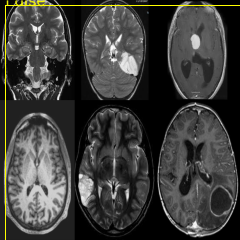
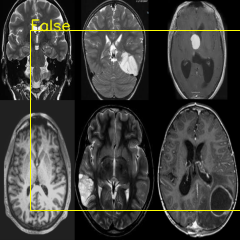
ok

Changed region(s): [[0.1167, 0.0583, 1.0, 0.9042], [0.0, 0.0, 1.0, 1.0]]

diff --git a/computer_vision_model_localization_detection.py b/computer_vision_model_localization_detection.py
@@ -11,7 +11,10 @@ class computer_vision_localization_detection(object):
 
         self.image_size = 240
         self.number_classes = int(number_classes)
-        self.split_size = 25
+        self.split_size = 900
+        self.validation_size = 3
+        
+        self.box_index = []
         self.color = [(0,255,255),(0,0,255),(0,255,0),(255,0,0)]
         self.font = cv2.FONT_HERSHEY_SIMPLEX
         self.alpha = 0.4
@@ -80,13 +83,16 @@ class computer_vision_localization_detection(object):
         self.image_file_image = np.array(self.image_file_image)
         self.X_test_image = self.image_file_image.astype("float32") / 255
         self.predicted_classes = self.model.predict(self.X_test)
-
+    
 
     def localization(self):
         
         first_predicting_position = None
         first_prediction = False
         last_predicting_position = None
+        
+        index_x = None
+        index_y = None
 
         for image in os.listdir(self.image_path):
             image_resized = cv2.imread(os.path.join(self.image_path, image))
@@ -99,36 +105,40 @@ class computer_vision_localization_detection(object):
                     for r in range(0,image_resized.shape[0],int(math.sqrt(self.split_size))):
                         for c in range(0,image_resized.shape[1],int(math.sqrt(self.split_size))):
                             if first_prediction == False:
-                                if self.predicted_classes_array[int(r/(self.image_size/(math.sqrt(len(self.image_file)))))][int(c/(self.image_size/(math.sqrt(len(self.image_file)))))] == [np.argmax(self.predicted_classes[i])][0]:
-                                    first_predicting_position = (int(r+(self.image_size/math.sqrt(len(self.image_file)))), int(c+(self.image_size/math.sqrt(len(self.image_file)))))
+                                if self.predicted_classes_array[int(r/(math.sqrt(self.split_size)))][int(c/(math.sqrt(self.split_size)))] == [np.argmax(self.predicted_classes[i], axis=0)]:
+                                    first_predicting_position = (int(r+(math.sqrt(self.split_size))), int(c+(math.sqrt(self.split_size))))
                                     first_prediction = True
 
-                            elif self.predicted_classes_array[int(r/(self.image_size/(math.sqrt(len(self.image_file)))))][int(c/(self.image_size/(math.sqrt(len(self.image_file)))))] == [np.argmax(self.predicted_classes[i])][0]:
-                                last_predicting_position = (int(r+(self.image_size/math.sqrt(len(self.image_file)))), int(c+(self.image_size/math.sqrt(len(self.image_file)))))
-                        
-                            if c == int(self.image_size-(self.image_size/(math.sqrt(len(self.image_file))))) and r == int(self.image_size-(self.image_size/(math.sqrt(len(self.image_file))))):
+                            elif self.predicted_classes_array[int(r/(math.sqrt(self.split_size)))][int(c/(math.sqrt(self.split_size)))] == [np.argmax(self.predicted_classes[i], axis=0)]:
+                                last_predicting_position = (int(r+(math.sqrt(self.split_size))), int(c+(math.sqrt(self.split_size))))
+                            
+                            for i in range(self.validation_size):
+                                for ii in range(self.validation_size):
+                                    if self.predicted_classes_array[int(c/((math.sqrt(self.split_size)*(i+1))))][int(r/((math.sqrt(self.split_size)*(ii+1))))] == [np.argmax(self.predicted_classes[i], axis=0)]:
+                            
+                            if c == int(self.image_size-(self.image_size/(math.sqrt(self.split_size)))) and r == int(self.image_size-(math.sqrt(self.split_size))):
                                 image_resized=cv2.rectangle(image_resized, first_predicting_position, last_predicting_position, self.color[np.argmax(self.predicted_classes[i], axis=0)], self.thickness)
-                                cv2.putText(image_resized, str((self.model_categpory[np.argmax(self.predicted_classes[i])])), first_predicting_position, self.font, self.fontScale, self.color[np.argmax(self.predicted_classes[i], axis=0)], self.thickness, cv2.LINE_AA)
+                                cv2.putText(image_resized, str((self.model_categpory[np.argmax(self.predicted_classes[i], axis=0)])), first_predicting_position, self.font, self.fontScale, self.color[np.argmax(self.predicted_classes[i], axis=0)], self.thickness, cv2.LINE_AA)
 
-                        cv2.imwrite(self.graph_path_localization + "model_segmenation_with_model_trained_prediction_" + str(self.save_model) + str(image) + '.png', image_resized)
+                    cv2.imwrite(self.graph_path_localization + "model_segmenation_with_model_trained_prediction_" + str(self.save_model) + str(image) + '.png', image_resized)
 
                 if self.number_classes == 4:
                     for r in range(0,image_resized.shape[0],int(math.sqrt(self.split_size))):
                         for c in range(0,image_resized.shape[1],int(math.sqrt(self.split_size))):
                             if first_prediction == False:
-                                if self.predicted_classes_array[int(r/(self.image_size/(math.sqrt(len(self.image_file)))))][int(c/(self.image_size/(math.sqrt(len(self.image_file)))))] == [np.argmax(self.predicted_classes[i])][0]:
-                                    first_predicting_position = (int(r+(self.image_size/math.sqrt(len(self.image_file)))), int(c+(self.image_size/math.sqrt(len(self.image_file)))))
+                                if self.predicted_classes_array[int(r/(math.sqrt(self.split_size)))][int(c/(math.sqrt(self.split_size)))] == [np.argmax(self.predicted_classes[i], axis=0)]:
+                                    first_predicting_position = (int(r+(math.sqrt(self.split_size))), int(c+(math.sqrt(self.split_size))))
                                     first_prediction = True
 
-                            elif self.predicted_classes_array[int(r/(self.image_size/(math.sqrt(len(self.image_file)))))][int(c/(self.image_size/(math.sqrt(len(self.image_file)))))] == [np.argmax(self.predicted_classes[i])][0]:
-                                last_predicting_position = (int(r+(self.image_size/math.sqrt(len(self.image_file)))), int(c+(self.image_size/math.sqrt(len(self.image_file)))))
+                            elif self.predicted_classes_array[int(r/(math.sqrt(self.split_size)))][int(c/(math.sqrt(self.split_size)))] == [np.argmax(self.predicted_classes[i], axis=0)]:
+                                last_predicting_position = (int(r+(math.sqrt(self.split_size))), int(c+(math.sqrt(self.split_size))))
                         
-                            if c == int(self.image_size-(self.image_size/(math.sqrt(len(self.image_file))))) and r == int(self.image_size-(self.image_size/(math.sqrt(len(self.image_file))))):
+                            if c == int(self.image_size-(math.sqrt(self.split_size))) and r == int(self.image_size-(math.sqrt(self.split_size))):
                                 image_resized=cv2.rectangle(image_resized, first_predicting_position, last_predicting_position, self.color[np.argmax(self.predicted_classes[i], axis=0)], self.thickness)
-                                cv2.putText(image_resized, str((self.model_categpory[np.argmax(self.predicted_classes[i])])), first_predicting_position, self.font, self.fontScale, self.color[np.argmax(self.predicted_classes[i], axis=0)], self.thickness, cv2.LINE_AA)
+                                cv2.putText(image_resized, str((self.model_categpory[np.argmax(self.predicted_classes[i], axis=0)])), first_predicting_position, self.font, self.fontScale, self.color[np.argmax(self.predicted_classes[i], axis=0)], self.thickness, cv2.LINE_AA)
 
 
-                        cv2.imwrite(self.graph_path_localization + "model_segmenation_with_model_trained_prediction_" + str(self.save_model) + str(image) + '.png', image_resized)
+                    cv2.imwrite(self.graph_path_localization + "model_segmenation_with_model_trained_prediction_" + str(self.save_model) + str(image) + '.png', image_resized)
 
 
 
